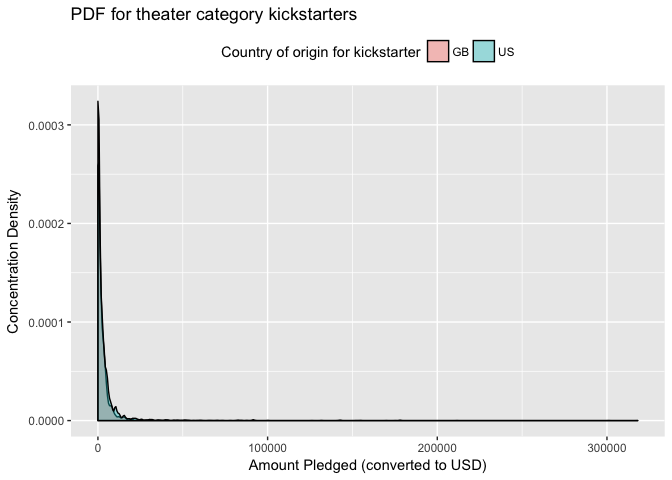
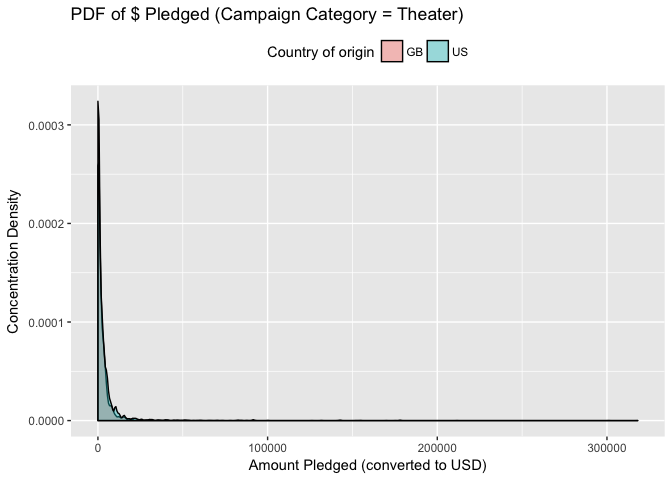
PDF, ECDF, and combined viz's generated

Changed region(s): [[0.3125, 0.0, 0.7812, 0.1562], [0.1562, 0.0, 0.5625, 0.0625]]

diff --git a/hypothesis-tests/distributional-tests/ks_test.md b/hypothesis-tests/distributional-tests/ks_test.md
@@ -1,7 +1,7 @@
-KS Test
+KS Test Vignette
 ================
 Paul Jeffries
-25 August, 2018
+26 August, 2018
 
 -   [Introduction](#introduction)
     -   [Strengths of the KS Test](#strengths-of-the-ks-test)
@@ -11,7 +11,9 @@ Paul Jeffries
     -   [Importing the Data](#importing-the-data)
     -   [Exploring and Cleaning the Data](#exploring-and-cleaning-the-data)
 -   [Distributions Explored](#distributions-explored)
-    -   [Probability Density Functions (PDFs)](#probability-density-functions-pdfs)
+    -   [Probability Density Functions (PDF)](#probability-density-functions-pdf)
+    -   [Empirical Cumulative Distribution (ECDF)](#empirical-cumulative-distribution-ecdf)
+    -   [Combined View of PDF and ECDF](#combined-view-of-pdf-and-ecdf)
 
 **NOTE: this is an early work in progress. Check back shortly for new additions**
 
@@ -299,8 +301,8 @@ Now that we have adequately explored and cleaned our data, we can proceed to the
 Distributions Explored
 ======================
 
-Probability Density Functions (PDFs)
-------------------------------------
+Probability Density Functions (PDF)
+-----------------------------------
 
 For the construction of our [probability density functions](https://en.wikipedia.org/wiki/Probability_density_function), we'll make use primarily of the [geom\_density geom in R](http://www.sthda.com/english/wiki/ggplot2-density-plot-quick-start-guide-r-software-and-data-visualization), as demonstrated below. This is a helpful building block in understanding the KS test itself, which is predicated on an understanding of the commulative version of the PDF, which we'll get to shorty. See below for the PDF of the GB and US-based campaigns whose projects were Theater-related.
 
@@ -311,19 +313,19 @@ base_2018_df_forviz %>%
   geom_density(aes(fill=factor(country)),alpha = 0.4) +
   theme(legend.position = "top") +
   labs(
-    title = paste0("PDF for theater category kickstarters"),
-    y = "Concentration Density",
-    x = "Amount Pledged (converted to USD)",
-    fill = "Country of origin for kickstarter"
+    title = paste0("PDF of $ Pledged (Campaign Category = Theater)"),
+      y = "Concentration Density",
+      x = "Amount Pledged (converted to USD)",
+      fill = "Country of origin"
   )
 ```
 
 ![](ks_test_files/figure-markdown_github/unnamed-chunk-17-1.png)
 
-As can be seen from the above, these distributions are very heavily skewed, even when we filter to a category type and look only at GP and US based campaigns. That is to be expected given the nature of the projects, as previously discussed. That said, we want our visuals to be helfpul (which the above honeslty is not). As such, for the purpose of this analysis **let's focus on projects that raised at most $10,000**.
+As can be seen from the above, these distributions are very heavily skewed, even when we filter to a category type and look only at GP and US based campaigns. That is to be expected given the nature of the projects, as previously discussed. That said, we want our visuals to be helfpul (which the above honeslty is not). As such, for the purpose of this analysis **let's focus on projects that raised at most $10,000** (although this cutoff value is easy to parameterize and is largely an arbitrary judgement call.
 
 ``` r
-base_2018_df_forviz %>%
+full_base_pdf <- base_2018_df_forviz %>%
   # build in the volume constraint
   dplyr::filter(usd_pledged <= 10000) %>%
   # now we need to get mean and median by group for the viz 
@@ -346,19 +348,121 @@ base_2018_df_forviz %>%
     geom_vline(aes(xintercept=median_pledged, colour=factor(country)),
              linetype="dotted", size=0.75) +
     # puts the legend on top of the view
-    theme(legend.position = "top") +
+     theme(
+      legend.position = "top",
+      legend.title = element_text(size=12),
+      legend.text = element_text(size=12)
+      ) +
     # takes care of all labeling
     labs(
-      title = paste0("PDF for theater category kickstarters"),
+      title = paste0("PDF of $ Pledged (Category: Theater)"),
       y = "Concentration Density",
       x = "Amount Pledged (converted to USD)",
       fill = "Country of origin",
-      colour = "Mean (dashed) and median (dotted) lines"
+      colour = "Mean (dashed); Median (dotted)"
     ) +
     guides(
+      # ensures the country of origin is listed first in legends
       fill = guide_legend(order=1),
       color = guide_legend(order=2)
       )
+
+full_base_pdf
 ```
 
 ![](ks_test_files/figure-markdown_github/unnamed-chunk-18-1.png)
+
+Empirical Cumulative Distribution (ECDF)
+----------------------------------------
+
+Having been introduced in the previous section to the PDF, we can move on to the [ECDF (aka CDF)](https://en.wikipedia.org/wiki/Empirical_distribution_function), on which the KS test's statistic is actually based. The ECDF is simply a cumulative version of a PDF. For the construction of our ECDF, we'll make use primarily of the [state\_ecdf() function in R](https://ggplot2.tidyverse.org/reference/stat_ecdf.html), as demonstrated below.
+
+``` r
+full_base_ecdf <- base_2018_df_forviz %>%
+  # build in the volume constraint
+  dplyr::filter(usd_pledged <= 10000) %>%
+  # now we need to get mean and median by group for the viz 
+  dplyr::group_by(country) %>%
+  dplyr::mutate(
+    mean_pledged = mean(usd_pledged),
+    median_pledged = median(usd_pledged)
+    ) %>%
+  # ungroup prior to the viz code
+  ungroup() %>%
+    # begin creation of the GGPLOT here
+    # put continuous variable on the X, Y will be cumulative density by default
+    ggplot(data = ., aes(x=usd_pledged, colour=factor(country))) +
+    # color needs to always be a factor, although this is redundant here
+    stat_ecdf() +
+    # adding reference lines for the mean and the median
+    geom_vline(aes(xintercept=mean_pledged, colour=factor(country)),
+             linetype="dashed", size=0.75) +
+    geom_vline(aes(xintercept=median_pledged, colour=factor(country)),
+             linetype="dotted", size=0.75) +
+    # puts the legend on top of the view
+    theme(
+      legend.position = "top",
+      legend.title = element_text(size=12),
+      legend.text = element_text(size=12)
+      ) +
+    # takes care of all labeling
+    labs(
+      title = paste0("ECDF of $ Pledged (Category: Theater)"),
+      y = "Cumulative Concentration Density",
+      x = "Amount Pledged (converted to USD)",
+      fill = "Country of origin",
+      colour = "Mean (dashed); Median (dotted)"
+    )
+
+full_base_ecdf
+```
+
+![](ks_test_files/figure-markdown_github/unnamed-chunk-19-1.png)
+
+Above, we can see a similar story as that told by the PDF, here shown in a slightly different manner. As the PDF was skewed very heavily towards the left in its density, here we see a correspondingly steep slope at the beginning of the x-axis range.
+
+This chart is also helpful in understanding the KS test, as the KS test statistic is the [maximum vertical distance between the two curves](https://upload.wikimedia.org/wikipedia/commons/c/cf/KS_Example.png) shown above; the larger the vertical gap between the curves, the larger the test statistic, and presumably, the larger the distributional difference.
+
+Combined View of PDF and ECDF
+-----------------------------
+
+``` r
+# some custom functions are sourced in, to reduce this document's length
+library(RCurl) # Provides functions to allow one to compose general HTTP requests, etc. in R
+```
+
+``` r
+# grabbing the raw info from my GitHub to turn into a text object
+script <- getURL("https://raw.githubusercontent.com/pmaji/stats-and-modeling/master/hypothesis-tests/useful_hyp_test_distrib_functions.R", ssl.verifypeer = FALSE)
+# sourcing that code just like you might source an R Script locally
+eval(parse(text = script))
+```
+
+``` r
+# the function below is from my my useful functions file on GitHub to get this function
+pre_filtered_df <- base_2018_df_forviz %>%
+  # build in the volume constraint
+  dplyr::filter(usd_pledged <= 10000)
+
+gen_sidebyside_pdf_ecdf(
+    dataset = "pre_filtered_df",
+    continuous_variable = "usd_pledged",
+    categorical_variable = "country",
+    alpha_for_density = 0.4,
+    ref_line_thickness = 0.75,
+    size_of_legend_title = 12,
+    size_of_legend_text = 12,
+    main_title_text = "PDF and ECDF of Amount Pledged (Category: Theater)",
+    pdf_subtitle_text = "PDF",
+    ecdf_subtitle_text = "ECDF",
+    fill_text = "Country",
+    colour_text = "Country",
+    x_text = "Amount Pledged ($)",
+    y_pdf_text = "Concentration Density",
+    y_ecdf_text = "Cumulative Concentration Density",
+    decimal_place_for_agg_stats = 2,
+    size_bottom_annotation = 14
+  )
+```
+
+![](ks_test_files/figure-markdown_github/unnamed-chunk-22-1.png)
